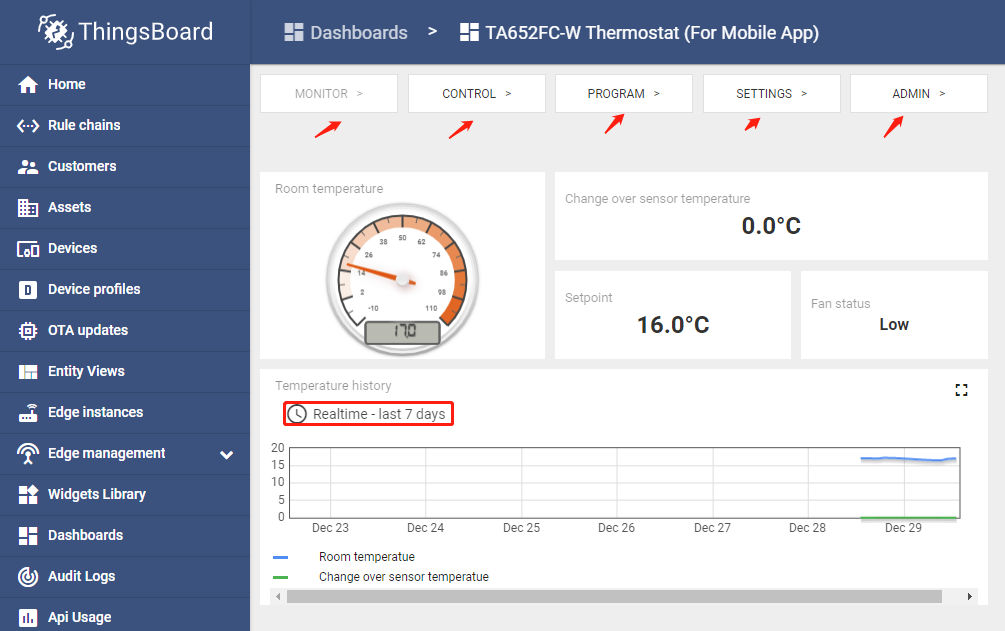
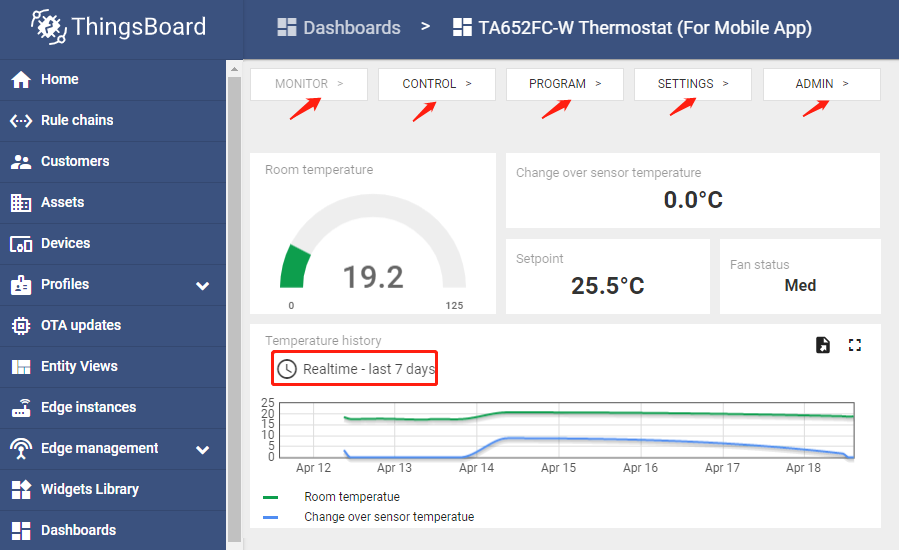
update these dashboards

diff --git a/docs/device/ta652fh-w/ta652fh-w-demo-dashboard-usage.rst b/docs/device/ta652fh-w/ta652fh-w-demo-dashboard-usage.rst
@@ -1,5 +1,239 @@
-*******************************
-TA652FH-W Demo Dashboard Usage
-*******************************
+**********************************
+TA652FH-W Demo Dashboards Usage
+**********************************
 
-*TODO:...*
+Overview
+=========
+
+There are two dashboards related to TA652FH-W, namely ``TA652FH-W Thermostat List`` and ``TA652FH-W Thermostat (For Mobile App)``. We open the former to start operating TA652FH-W.
+
+.. image:: /_static/device/ta652fh-w/ta652fh-w-demo-dashboards-usage/ta652fh-w-demo-dashboards-usage-overview-1.png
+
+.. list-table:: TA652FH-W Demo Dashboards
+   :widths: 10 5 5 5 5
+   :header-rows: 1
+
+   * - Dashboard
+     - Description
+     - For Web UI
+     - For Mobile App
+     - Entry*
+   * - TA652FH-W Thermostat List
+     - list
+     - Yes
+     - No
+     - Yes
+   * - TA652FH-W Thermostat (For Mobile App)
+     - details
+     - Yes
+     - Yes
+     - No
+
+.. hint::
+
+    - If *Entry* is *Yes*, then directly enter the Dashboard and there will be data displayed.
+    - If *Entry* is *No*, there will be no data display when entering this Dashboard directly, and you need to jump to this Dashboard from other Dashboards.
+
+.. _TA652FH-W Thermostat List:
+
+TA652FH-W Thermostat List
+==========================
+
+*Default State* is root state.
+
+Default State
+----------------
+
+.. image:: /_static/device/ta652fh-w/ta652fh-w-demo-dashboards-usage/ta652fh-w-demo-dashboards-usage-list-1.png
+
+*  Dashboard bar:
+    * |Dashboard name| : Click here to skip to **root State**. Since **default State** is *root state*, click here and there is no response.
+    * |Dashboard expand to fullscreen| : Click the two ICONS in the upper left corner to display the page in full screen.
+    * |Dashboard edit timewindow| : Edit time window.
+
+.. |Dashboard name| image:: /_static/device/ta652fh-w/ta652fh-w-demo-dashboards-usage/ta652fh-w-demo-dashboards-usage-list-2.png
+.. |Dashboard expand to fullscreen| image:: /_static/device/ta652fh-w/ta652fh-w-demo-dashboards-usage/ta652fh-w-demo-dashboards-usage-list-3.png
+.. |Dashboard edit timewindow| image:: /_static/device/ta652fh-w/ta652fh-w-demo-dashboards-usage/ta652fh-w-demo-dashboards-usage-list-4.png
+
+*  Thermostats widgets:
+    * Fields: 
+        * Entity name, Entity type, Type, active.
+        * Room temperature, Floor Temperature, Setpoint, Unit: Refer to `Monitor State`_.
+    * Actions:
+        * |detail_dashboard| : skip to `TA652FH-W Thermostat (For Mobile App)`_。
+
+.. |detail_dashboard| image:: /_static/device/ta652fh-w/ta652fh-w-demo-dashboards-usage/ta652fh-w-demo-dashboards-usage-list-5.png
+
+
+.. _TA652FH-W Thermostat (For Mobile App):
+
+TA652FH-W Thermostat (For Mobile App)
+======================================
+
+*Monitor State* is root state.
+
+Monitor State
+-------------------------
+
+.. image:: /_static/device/ta652fh-w/ta652fh-w-demo-dashboards-usage/ta652fh-w-demo-dashboards-usage-detail-monitor-1.png
+
+*  Dashboard bar:
+    Hidden.
+    Refer  `Default State`_.
+
+* Widgets:
+    .. table:: 
+        :widths: 35, 65
+
+        =============================== ============================================================
+        Widget                          Description
+        =============================== ============================================================
+        MONITOR                         skip to `Monitor State`_
+        CONTROL                         skip to `Control State`_
+        PROGRAM                         skip to `Program State`_
+        SETTINGS                        skip to `Settings State`_
+        ADMIN                           skip to `Admin State`_
+
+        Room Temperature                room temperature
+        Floor Temperature               floor temperature
+        Setpoint                        current setpoint value
+        Temperature history             | Room temperature & Change Over Sensor temperature \
+                                        | history. Click |Temperature history edit timewindow| \
+                                        | to edit this timewindow. Refer to `Default State`_
+        =============================== ============================================================
+
+.. |Temperature history edit timewindow| image:: /_static/device/ta652fh-w/ta652fh-w-demo-dashboards-usage/ta652fh-w-demo-dashboards-usage-detail-monitor-2.png
+
+Control State
+-------------------------
+
+.. image:: /_static/device/ta652fh-w/ta652fh-w-demo-dashboards-usage/ta652fh-w-demo-dashboards-usage-detail-control-1.png
+
+*  Dashboard bar:
+    Hidden.
+    Refer to `Default State`_.
+
+* Widgets:
+    .. table:: 
+        :widths: 35, 65
+
+        =============================== ============================================================
+        Widget                          Description
+        =============================== ============================================================
+        Setpoint                        If you adjust *setpoint*, *override program status* is YES (true)
+        Program                         program on or off
+        PRG next setpoint               next program time & setpoint
+        Override program status         "YES"(true) or "NO"(false)
+
+        Control Mode                    "Off" or "On"
+        =============================== ============================================================
+
+Program State
+------------------------
+
+.. image:: /_static/device/ta652fh-w/ta652fh-w-demo-dashboards-usage/ta652fh-w-demo-dashboards-usage-detail-program-1.png
+
+*  Dashboard bar:
+    Hidden.
+    Refer to `Default State`_.
+
+* Widgets:
+    .. table:: 
+        :widths: 35, 65
+
+        ======================= ===================================================
+        Program Mode            Description
+        ======================= ===================================================
+        NO PROGRAM              Program disabled
+        1 DAY (MON)             Using 4 set points of Monday every day
+        1+5+1 (SUN+MON+SAT)     Using 4 set points of Monday from Monday to Friday
+        7 DAYS (SUN~SAT)        Using 4 set points every day
+        Sunday, ...             Skip to `Program_Setpoints State`_
+        ======================= ===================================================
+
+Program_Setpoints State
+^^^^^^^^^^^^^^^^^^^^^^^^^^^^^^^^^
+
+.. image:: /_static/device/ta652fh-w/ta652fh-w-demo-dashboards-usage/ta652fh-w-demo-dashboards-usage-detail-program-setpoints-1.png
+
+*  Dashboard bar:
+    Hidden.
+    Refer to `Default State`_.
+
+* Widgets:
+    .. table:: 
+        :widths: 35, 65
+
+        =========================== ======================================================
+        Widget                      Description
+        =========================== ======================================================
+        Program 1 ~ Program 4       time, hour:minute
+        Setpoint 1 ~ Setpoint 4     setpoint value, temperature
+        =========================== ======================================================
+
+
+Settings State
+-------------------------
+
+.. image:: /_static/device/ta652fh-w/ta652fh-w-demo-dashboards-usage/ta652fh-w-demo-dashboards-usage-detail-settings-1.png
+
+*  Dashboard bar:
+    Hidden.
+    Refer to `Default State`_.
+
+* Widgets:
+    .. table:: 
+        :widths: 35, 65
+
+        ============================ ===========================================================
+        Widget                       Description
+        ============================ ===========================================================
+        Temp Unit                    "°C" or "°F". **Reboot the device to take effect**
+        Adaptive control             Enabled or disabled
+
+        System Mode                  "Heat" or "Cool"
+        Sensor Mode                  | "Internal" / "External" / "Combined" senosr can be selected 
+                                     | when it is in "Heat" mode.
+                                     | Only "Internal" Sensor will be used when it is in "Cool" mode.
+
+        Floor temperature limited    external sensor temperature offset
+        Temp Offset(Internal Sensor) Internal sensor temperature offset
+
+        Switching Diff Heating       Switching differential heating
+        Switching Diff Cooling       Switching differential cooling
+        ============================ ===========================================================
+
+
+Admin State
+----------------------
+
+.. image:: /_static/device/ta652fh-w/ta652fh-w-demo-dashboards-usage/ta652fh-w-demo-dashboards-usage-detail-admin-1.png
+
+*  Dashboard bar:
+    Hidden.
+    Refer to `Default State`_.
+
+* Widgets:
+    .. table:: 
+        :widths: 35, 65
+
+        =================== ===========================================================
+        Widget                       Description
+        =================== ===========================================================
+        Time Format         "12 Hours" or "24 Hours"
+        Timezone            See :ref:`add-shared-attributes-of-ta652fc-w-cloudhost`
+        NTP Server          | SNTP protocol server URL, e.g. pool.ntp.org, 
+                            | 0.pool.ntp.org, 1.pool.ntp.org, 
+                            | time.nist.gov, …
+                            | see :ref:`add-shared-attributes-of-ta652fc-w-cloudhost`
+        Sync Time           | Sync time per syncTimeFreq seconds.
+                            | If you change *Timezone* or *NTP Server*, you have to do it.
+                            | See :ref:`add-shared-attributes-of-ta652fc-w-cloudhost`
+
+        Device attributes   | Device name, device profile (type), device label, 
+                            | model, MAC, device Wi-Fi Module F/W version,
+                            | device Main MCU F/W version
+
+        Reboot              Reboot device
+        Clear Wi-Fi Config  Clear device's Wi-Fi configuration
+        =================== ===========================================================

diff --git a/docs/device/ta652fc-w/ta652fc-w-demo-dashboards-usage.rst b/docs/device/ta652fc-w/ta652fc-w-demo-dashboards-usage.rst
@@ -57,8 +57,8 @@ Default State
 
 *  Thermostats widgets:
     * Fields: 
-        * Entity name, Entity type, Type, active.
-        * Room temp, Change Over Sensor Temp, Setpoint, Fan status, Unit: Refer to `Monitor State`_.
+        * Device name, Label, Type, active.
+        * Room temperature, Change Over Sensor Temperature, Setpoint, Fan status, Unit: Refer to `Monitor State`_.
     * Actions:
         * |detail_dashboard| : skip to `TA652FC-W Thermostat (For Mobile App)`_。
 

diff --git a/docs/avantec/avantec-dashboards.rst b/docs/avantec/avantec-dashboards.rst
@@ -15,14 +15,8 @@ TA652FC-W
 TA652FH-W
 ----------
 
-* TA652FH-W Thermostat List - device list.
-
-    *TODO:...*
-
-* TA652FH-W Thermostat (For Mobile App) - device detail.
-
-    *TODO:...*
-
+* :ref:`TA652FH-W Thermostat List` - device list.
+* :ref:`TA652FH-W Thermostat (For Mobile App)` - device detail.
 
 Other Dashboards
 -----------------
